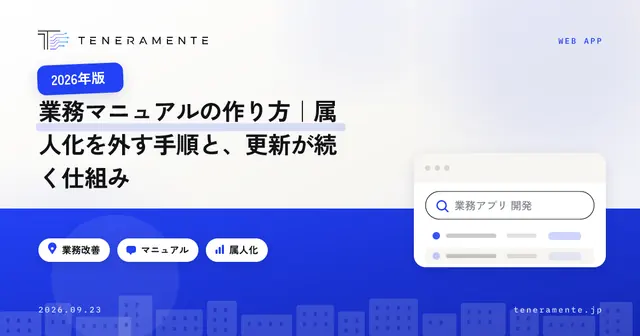
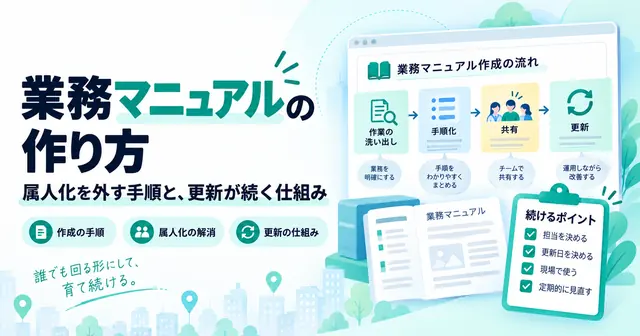
covers: 簡易版だった4本のカバーを ChatGPT 製に差し替え、在庫を補充（k019,k065,m020,m032）
ChatGPT の在庫切れで、9/23・9/24 の自動投稿4本がコード生成の簡易カバーになっていた。
・差し替え: 2026-09-23-gyomu-manual-tsukurikata / 2026-09-24-title-tag-kakikata /
  mieroom bukken-shokaibun-kakikata / mieroom bukken-shashin-torikata
  （9/24 の2本はクラウドで WebP が作れず PNG 表示だったので、WebP も作成）
・在庫の補充: 次に書く TENERAMENTE 2件（k019・k065）、ミエルーム 2件（m020・m032）
・使い終わった在庫 6件（k017,k063,k073,m019,m028,m029）を削除

diff --git a/mieroom/blog.html b/mieroom/blog.html
@@ -166,7 +166,7 @@ src="https://www.facebook.com/tr?id=28086413637650888&ev=PageView&noscript=1"
     <div class="blog-grid stagger" id="grid">
 <!-- MILPAGE:START ミルページで書いた記事。ここは自動生成なので直接編集しないでください -->
       <a class="bpost" data-cat="集客・広告" data-text="賃貸物件の写真の撮り方｜反響が変わる撮影の順番とNG 物件写真 撮影 ポータル掲載 反響 賃貸仲介" href="articles/bukken-shashin-torikata.html">
-        <div class="bcover bcover--img"><img src="assets/covers/bukken-shashin-torikata.png" alt="賃貸物件の写真の撮り方｜反響が変わる撮影の順番とNG" loading="lazy" decoding="async" width="640" height="360"></div>
+        <div class="bcover bcover--img"><img src="assets/covers/bukken-shashin-torikata-card.webp" alt="賃貸物件の写真の撮り方｜反響が変わる撮影の順番とNG" loading="lazy" decoding="async" width="640" height="360"></div>
         <div class="bbody">
           <div class="bmeta"><span class="bcat">集客・広告</span><span class="bdate">2026.09.24</span></div>
           <h3>賃貸物件の写真の撮り方｜反響が変わる撮影の順番とNG</h3>
@@ -375,42 +375,12 @@ src="https://www.facebook.com/tr?id=28086413637650888&ev=PageView&noscript=1"
         </div>
       </a>
 
-      <a class="bpost" data-cat="DX" data-text="不動産仲介の業務改善ツール導入ガイド｜バラバラ管理から抜け出す手順 不動産仲介 業務改善ツール 業務効率化 DX 一元管理" href="articles/fudosan-chukai-gyomu-kaizen-tool-donyu.html">
-        <div class="bcover bcover--img"><img src="assets/covers/fudosan-chukai-gyomu-kaizen-tool-donyu-card.webp" alt="不動産仲介の業務改善ツール導入ガイド｜バラバラ管理から抜け出す手順" loading="lazy" decoding="async" width="640" height="360"></div>
-        <div class="bbody">
-          <div class="bmeta"><span class="bcat">DX</span><span class="bdate">2026.09.04</span></div>
-          <h3>不動産仲介の業務改善ツール導入ガイド｜バラバラ管理から抜け出す手順</h3>
-          <p>紙・Excel・LINEに散らばった管理をまとめたい不動産仲介の店舗向けに、バラバラ管理で起きる問題、反響→申込→売上の順に一元化する理由、導入から切替までの手順、失敗しないための運用ルール、人が判断すべき部分を整理しました。</p>
-          <span class="bread">5分で読める <span class="arr">→</span></span>
-        </div>
-      </a>
-
       <a class="bpost" data-cat="DX" data-text="不動産の業務ツール見直しチェックリスト｜乗り換えの判断基準と移行の順番 業務ツール見直し システム乗り換え ツール比較 DX 賃貸仲介" href="articles/fudosan-gyomu-tool-minaoshi.html">
         <div class="bcover bcover--img"><img src="assets/covers/fudosan-gyomu-tool-minaoshi-card.webp" alt="不動産の業務ツール見直しチェックリスト｜乗り換えの判断基準と移行の順番" loading="lazy" decoding="async" width="640" height="360"></div>
         <div class="bbody">
           <div class="bmeta"><span class="bcat">DX</span><span class="bdate">2026.09.04</span></div>
           <h3>不動産の業務ツール見直しチェックリスト｜乗り換えの判断基準と移行の順番</h3>
           <p>不動産会社の業務ツール見直しは、5つのサインの確認から。乗り換えない判断基準、賃貸仲介のツール比較で見る観点、並行運用から切替・旧データの扱いまでの移行手順と失敗例をチェックリストで整理しました。</p>
-          <span class="bread">5分で読める <span class="arr">→</span></span>
-        </div>
-      </a>
-
-      <a class="bpost" data-cat="組織・育成" data-text="不動産の開業準備チェックリスト｜免許・事務所・業者間サイト・管理ツール 不動産開業 開業準備 宅建業免許 賃貸仲介 業者間サイト" href="articles/fudosan-kaigyo-junbi-checklist.html">
-        <div class="bcover bcover--img"><img src="assets/covers/fudosan-kaigyo-junbi-checklist-card.webp" alt="不動産の開業準備チェックリスト｜免許・事務所・業者間サイト・管理ツール" loading="lazy" decoding="async" width="640" height="360"></div>
-        <div class="bbody">
-          <div class="bmeta"><span class="bcat">組織・育成</span><span class="bdate">2026.09.04</span></div>
-          <h3>不動産の開業準備チェックリスト｜免許・事務所・業者間サイト・管理ツール</h3>
-          <p>賃貸仲介で開業する方向けに、法人設立から宅建業免許の申請、営業保証金や保証協会、専任の宅建士、集客と業者間サイトの準備、反響・申込・売上・入金を1つで追う管理の仕組みまで、開業準備の流れをチェックリストにしました。</p>
-          <span class="bread">5分で読める <span class="arr">→</span></span>
-        </div>
-      </a>
-
-      <a class="bpost" data-cat="業務効率化" data-text="賃貸仲介の業務改善ツール｜定着する店舗と失敗する店舗の違い・選び方 業務改善ツール 賃貸仲介 業務効率化 ツール導入 Excel移行" href="articles/gyomu-kaizen-tool-teichaku.html">
-        <div class="bcover bcover--img"><img src="assets/covers/gyomu-kaizen-tool-teichaku-card.webp" alt="賃貸仲介の業務改善ツール｜定着する店舗と失敗する店舗の違い・選び方" loading="lazy" decoding="async" width="640" height="360"></div>
-        <div class="bbody">
-          <div class="bmeta"><span class="bcat">業務効率化</span><span class="bdate">2026.09.04</span></div>
-          <h3>賃貸仲介の業務改善ツール｜定着する店舗と失敗する店舗の違い・選び方</h3>
-          <p>賃貸仲介の業務改善ツールは、入れた後に現場が使い続けるかで成果が決まります。失敗する店舗の共通点、定着する店舗が実践していること、選び方のチェックリスト、乗り換え時の移行手順を現場目線でまとめました。</p>
           <span class="bread">5分で読める <span class="arr">→</span></span>
         </div>
       </a>
@@ -425,12 +395,12 @@ src="https://www.facebook.com/tr?id=28086413637650888&ev=PageView&noscript=1"
         </div>
       </a>
 
-      <a class="bpost" data-cat="売上管理" data-text="賃貸仲介の申込管理表の作り方｜Excelで漏れが出る原因と項目設計の正解 申込管理表 賃貸仲介 売上管理 Excel 入金管理" href="articles/moushikomi-kanrihyo-tsukurikata.html">
-        <div class="bcover bcover--img"><img src="assets/covers/moushikomi-kanrihyo-tsukurikata-card.webp" alt="賃貸仲介の申込管理表の作り方｜Excelで漏れが出る原因と項目設計の正解" loading="lazy" decoding="async" width="640" height="360"></div>
+      <a class="bpost" data-cat="業務効率化" data-text="賃貸仲介の業務改善ツール｜定着する店舗と失敗する店舗の違い・選び方 業務改善ツール 賃貸仲介 業務効率化 ツール導入 Excel移行" href="articles/gyomu-kaizen-tool-teichaku.html">
+        <div class="bcover bcover--img"><img src="assets/covers/gyomu-kaizen-tool-teichaku-card.webp" alt="賃貸仲介の業務改善ツール｜定着する店舗と失敗する店舗の違い・選び方" loading="lazy" decoding="async" width="640" height="360"></div>
         <div class="bbody">
-          <div class="bmeta"><span class="bcat">売上管理</span><span class="bdate">2026.09.04</span></div>
-          <h3>賃貸仲介の申込管理表の作り方｜Excelで漏れが出る原因と項目設計の正解</h3>
-          <p>賃貸仲介の申込管理表は、申込から審査・契約・入金・後ADまでを1行で追える設計にすると漏れが減ります。必須項目の決め方、Excelで漏れが出る4つの原因、誰がいつ更新するかの運用ルール、ツール化を考える目安を現場目線で整理しました。</p>
+          <div class="bmeta"><span class="bcat">業務効率化</span><span class="bdate">2026.09.04</span></div>
+          <h3>賃貸仲介の業務改善ツール｜定着する店舗と失敗する店舗の違い・選び方</h3>
+          <p>賃貸仲介の業務改善ツールは、入れた後に現場が使い続けるかで成果が決まります。失敗する店舗の共通点、定着する店舗が実践していること、選び方のチェックリスト、乗り換え時の移行手順を現場目線でまとめました。</p>
           <span class="bread">5分で読める <span class="arr">→</span></span>
         </div>
       </a>
@@ -442,6 +412,36 @@ src="https://www.facebook.com/tr?id=28086413637650888&ev=PageView&noscript=1"
           <h3>賃貸仲介の店舗向けツールに必要な機能｜1店舗から使える業務管理の条件</h3>
           <p>賃貸仲介の店舗向けツールに必要な機能を、反響から接客・申込・契約・入金・後ADまでの流れごとに整理。多店舗向けとの違い、現場が使い続ける画面の条件、導入前に決める運用、大きすぎるシステムを避ける判断基準を解説します。</p>
           <span class="bread">6分で読める <span class="arr">→</span></span>
+        </div>
+      </a>
+
+      <a class="bpost" data-cat="DX" data-text="不動産仲介の業務改善ツール導入ガイド｜バラバラ管理から抜け出す手順 不動産仲介 業務改善ツール 業務効率化 DX 一元管理" href="articles/fudosan-chukai-gyomu-kaizen-tool-donyu.html">
+        <div class="bcover bcover--img"><img src="assets/covers/fudosan-chukai-gyomu-kaizen-tool-donyu-card.webp" alt="不動産仲介の業務改善ツール導入ガイド｜バラバラ管理から抜け出す手順" loading="lazy" decoding="async" width="640" height="360"></div>
+        <div class="bbody">
+          <div class="bmeta"><span class="bcat">DX</span><span class="bdate">2026.09.04</span></div>
+          <h3>不動産仲介の業務改善ツール導入ガイド｜バラバラ管理から抜け出す手順</h3>
+          <p>紙・Excel・LINEに散らばった管理をまとめたい不動産仲介の店舗向けに、バラバラ管理で起きる問題、反響→申込→売上の順に一元化する理由、導入から切替までの手順、失敗しないための運用ルール、人が判断すべき部分を整理しました。</p>
+          <span class="bread">5分で読める <span class="arr">→</span></span>
+        </div>
+      </a>
+
+      <a class="bpost" data-cat="売上管理" data-text="賃貸仲介の申込管理表の作り方｜Excelで漏れが出る原因と項目設計の正解 申込管理表 賃貸仲介 売上管理 Excel 入金管理" href="articles/moushikomi-kanrihyo-tsukurikata.html">
+        <div class="bcover bcover--img"><img src="assets/covers/moushikomi-kanrihyo-tsukurikata-card.webp" alt="賃貸仲介の申込管理表の作り方｜Excelで漏れが出る原因と項目設計の正解" loading="lazy" decoding="async" width="640" height="360"></div>
+        <div class="bbody">
+          <div class="bmeta"><span class="bcat">売上管理</span><span class="bdate">2026.09.04</span></div>
+          <h3>賃貸仲介の申込管理表の作り方｜Excelで漏れが出る原因と項目設計の正解</h3>
+          <p>賃貸仲介の申込管理表は、申込から審査・契約・入金・後ADまでを1行で追える設計にすると漏れが減ります。必須項目の決め方、Excelで漏れが出る4つの原因、誰がいつ更新するかの運用ルール、ツール化を考える目安を現場目線で整理しました。</p>
+          <span class="bread">5分で読める <span class="arr">→</span></span>
+        </div>
+      </a>
+
+      <a class="bpost" data-cat="組織・育成" data-text="不動産の開業準備チェックリスト｜免許・事務所・業者間サイト・管理ツール 不動産開業 開業準備 宅建業免許 賃貸仲介 業者間サイト" href="articles/fudosan-kaigyo-junbi-checklist.html">
+        <div class="bcover bcover--img"><img src="assets/covers/fudosan-kaigyo-junbi-checklist-card.webp" alt="不動産の開業準備チェックリスト｜免許・事務所・業者間サイト・管理ツール" loading="lazy" decoding="async" width="640" height="360"></div>
+        <div class="bbody">
+          <div class="bmeta"><span class="bcat">組織・育成</span><span class="bdate">2026.09.04</span></div>
+          <h3>不動産の開業準備チェックリスト｜免許・事務所・業者間サイト・管理ツール</h3>
+          <p>賃貸仲介で開業する方向けに、法人設立から宅建業免許の申請、営業保証金や保証協会、専任の宅建士、集客と業者間サイトの準備、反響・申込・売上・入金を1つで追う管理の仕組みまで、開業準備の流れをチェックリストにしました。</p>
+          <span class="bread">5分で読める <span class="arr">→</span></span>
         </div>
       </a>
 <!-- MILPAGE:END -->

diff --git a/mieroom/articles/bukken-shashin-torikata.html b/mieroom/articles/bukken-shashin-torikata.html
@@ -74,7 +74,7 @@
   </div>
 </section>
 <div class="post-cover">
-  <div class="band band--img"><img src="../assets/covers/bukken-shashin-torikata.png" alt="賃貸物件の写真の撮り方｜反響が変わる撮影の順番とNG" width="1200" height="675" decoding="async"></div>
+  <div class="band band--img"><img src="../assets/covers/bukken-shashin-torikata.webp" alt="賃貸物件の写真の撮り方｜反響が変わる撮影の順番とNG" width="1200" height="675" decoding="async"></div>
 </div>
 <div class="post-body">
 <p>賃貸物件の写真の撮り方で結果を分けるのは、カメラの性能ではありません。<strong>撮る前の準備と、撮る順番を店舗で決めてあるかどうか</strong>です。同じ部屋でも、担当者によって写真の出来が大きく変わる店舗は、機材ではなく手順が揃っていないだけということがよくあります。</p>
